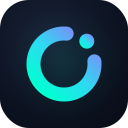
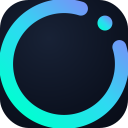
packaging: regenerate app, document and installer art
- linux/hicolor: 16-256 px renders of the ring + comet-dot mark
    (<= 32 px uses a simplified variant with a thicker ring and
    bigger dot so it stays readable) plus the scalable source
  - exeicons: osza.ico (16-256), osza.icns (16-1024), the page
    document icons (page.ico + page16/32/48/256) now carrying a
    small brand ring instead of legacy art
  - mac: dmg-icon and a new navy dmg-background built from the
    brand lockup
  - README logo.png: new 1280x640 banner on brand navy

The mark itself is unchanged - only its rendering and small-size
variants are refreshed.

diff --git a/tools/icons/build.py b/tools/icons/build.py
@@ -762,17 +762,21 @@ def io_bytes_png(img: Image.Image) -> bytes:
     return buf.getvalue()
 
 
-ICNS_TYPES = {16: "ic12", 32: "ic11", 128: "ic07", 256: "ic08", 512: "ic09", 1024: "ic10"}
+# pixel size -> ICNS 4-byte type code (PNG payloads)
+ICNS_TYPES = {16: "icp4", 32: "ic11", 64: "ic12", 128: "ic07",
+              256: "ic08", 512: "ic09", 1024: "ic10"}
 
 
 def save_icns(sizes_imgs: Dict[int, Image.Image], path: Path) -> None:
-    data = b"icns"
+    """Write an ICNS container: "icns" magic + big-endian total file
+    length, then one PNG chunk per size (type + chunk length + payload)."""
+    import struct
+    chunks = b""
     for s in sorted(sizes_imgs):
         code = ICNS_TYPES[s].encode("ascii")
         blob = io_bytes_png(sizes_imgs[s])
-        import struct
-        data += code + struct.pack(">I", len(blob) + 8) + blob
-    path.write_bytes(data)
+        chunks += code + struct.pack(">I", len(blob) + 8) + blob
+    path.write_bytes(b"icns" + struct.pack(">I", 8 + len(chunks)) + chunks)
 
 
 def emit_packaging() -> None:
